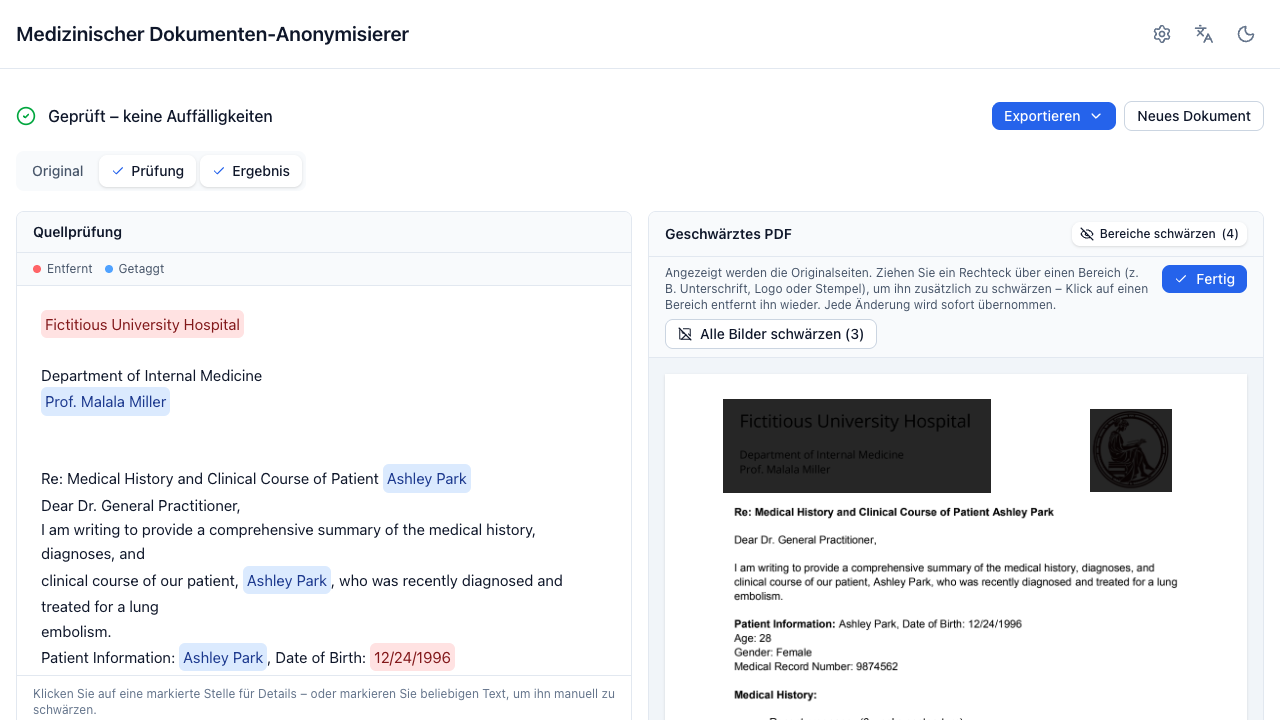
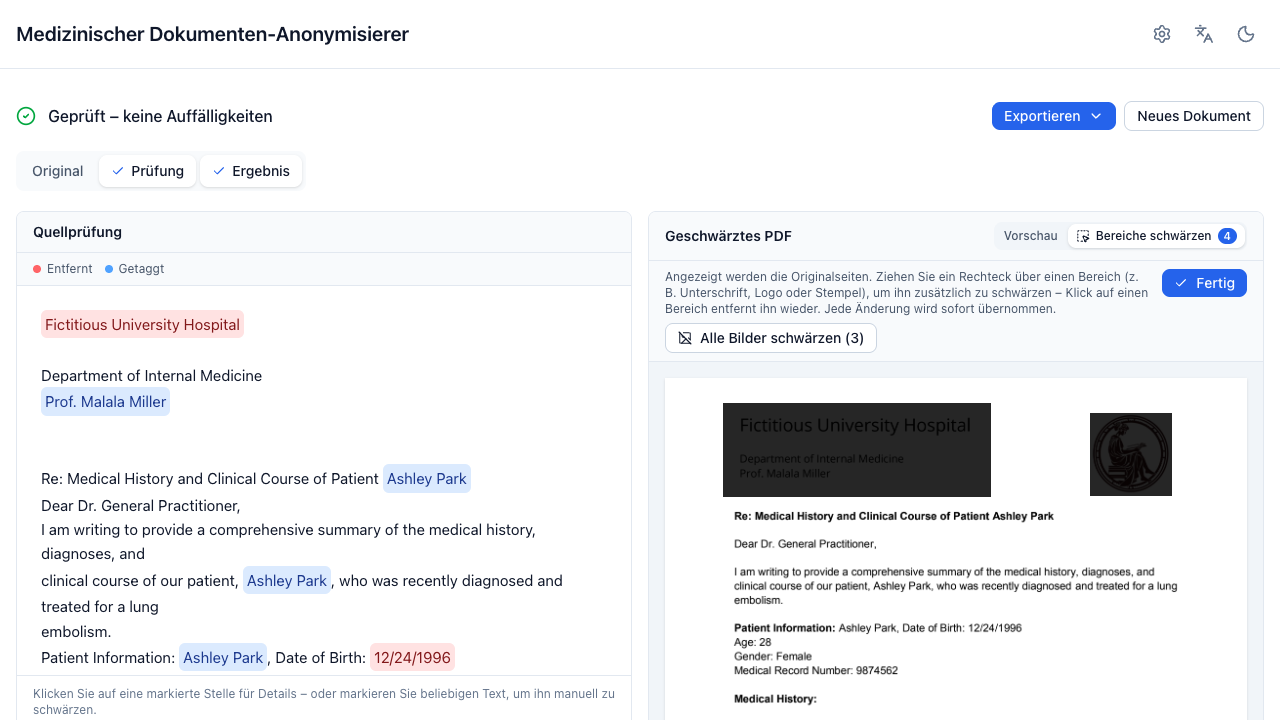
Make the PDF area editor a labelled second view of the PDF panel
The "Bereiche schwärzen" control was styled like the panel-switcher chips
(aria-pressed, an EyeOff icon, a bare "(3)" count), so it read as an on/off
switch for redaction rather than an entry point into the drawing editor.

Turn it into an explicit two-view segmented control (Vorschau | Bereiche
schwärzen) and add a footer line under the preview explaining what the text
pipeline cannot cover — signatures, stamps, logos — which doubles as the
area-count readout once areas exist.

diff --git a/frontend/components/anonymizer/ResultView.vue b/frontend/components/anonymizer/ResultView.vue
@@ -222,55 +222,112 @@
              the ORIGINAL pages; they apply to the export and this preview. -->
         <section v-if="isVisible('pdf')" :class="panelCardClass">
           <header class="shrink-0 border-b border-default bg-surface-muted px-4 py-2.5">
-            <div class="flex items-center justify-between gap-2">
+            <div class="flex flex-wrap items-center justify-between gap-2">
               <h3 class="text-sm font-semibold text-content">{{ t('result.panels.pdf') }}</h3>
-              <button
+              <!-- Two VIEWS of this one panel, not an on/off switch: opening
+                   the editor replaces the preview, so the header shows both
+                   sides and which one is showing. -->
+              <div
                 v-if="session.sourceFile !== null"
-                type="button"
-                :aria-pressed="areaEditing"
-                class="inline-flex items-center gap-1.5 rounded-card px-2 py-1 text-xs font-medium transition-colors focus:outline-none focus-visible:ring-2 focus-visible:ring-ring"
-                :class="
-                  areaEditing
-                    ? 'bg-surface text-content shadow-sm'
-                    : 'text-content-muted hover:text-content'
-                "
-                @click="areaEditing = !areaEditing"
+                role="group"
+                :aria-label="t('result.pdf.view_label')"
+                class="inline-flex items-center gap-0.5 rounded-card bg-surface-sunken p-0.5"
               >
-                <EyeOff class="h-3.5 w-3.5" aria-hidden="true" />
-                {{ t('result.pdf.areas') }}
-                <span v-if="session.redactAreas.length > 0">
-                  ({{ session.redactAreas.length }})
-                </span>
-              </button>
+                <button
+                  type="button"
+                  :aria-pressed="!areaEditing"
+                  :class="pdfViewTabClass(!areaEditing)"
+                  @click="areaEditing = false"
+                >
+                  {{ t('result.pdf.view_preview') }}
+                </button>
+                <button
+                  type="button"
+                  :aria-pressed="areaEditing"
+                  :class="pdfViewTabClass(areaEditing)"
+                  @click="areaEditing = true"
+                >
+                  <SquareDashedMousePointer class="h-3.5 w-3.5" aria-hidden="true" />
+                  {{ t('result.pdf.view_areas') }}
+                  <span
+                    v-if="session.redactAreas.length > 0"
+                    class="rounded-full bg-primary px-1.5 text-[11px] leading-4 font-semibold text-white"
+                    :aria-label="
+                      t(
+                        'result.pdf.areas_badge_label',
+                        { count: session.redactAreas.length },
+                        session.redactAreas.length,
+                      )
+                    "
+                  >
+                    {{ session.redactAreas.length }}
+                  </span>
+                </button>
+              </div>
             </div>
             <p v-if="result.source_type === 'pdf-ocr'" class="text-xs text-content-subtle">
               {{ t('result.pdf.reconstructed') }}
             </p>
           </header>
           <PdfAreaEditor v-if="areaEditing" class="min-h-0 flex-1" @done="areaEditing = false" />
-          <div
-            v-else-if="session.pdfPreviewLoading"
-            class="flex flex-1 items-center justify-center gap-2 p-4 text-sm text-content-subtle"
-            aria-live="polite"
-          >
-            <LoadingSpinner size="small" color="gray" inline label="" />
-            {{ t('result.pdf.generating') }}
-          </div>
-          <div v-else-if="session.pdfPreviewError" class="space-y-3 p-4">
-            <p class="rounded-card px-3 py-2 text-sm" :class="getBannerClass('red')">
-              {{ session.pdfPreviewError }}
+          <template v-else>
+            <div
+              v-if="session.pdfPreviewLoading"
+              class="flex flex-1 items-center justify-center gap-2 p-4 text-sm text-content-subtle"
+              aria-live="polite"
+            >
+              <LoadingSpinner size="small" color="gray" inline label="" />
+              {{ t('result.pdf.generating') }}
+            </div>
+            <div v-else-if="session.pdfPreviewError" class="space-y-3 p-4">
+              <p class="rounded-card px-3 py-2 text-sm" :class="getBannerClass('red')">
+                {{ session.pdfPreviewError }}
+              </p>
+              <BaseButton size="sm" variant="secondary" @click="session.refreshPdfPreview()">
+                {{ t('common.retry') }}
+              </BaseButton>
+            </div>
+            <iframe
+              v-else-if="session.pdfPreviewUrl"
+              :src="session.pdfPreviewUrl"
+              :title="t('result.pdf.preview_title')"
+              class="min-h-0 w-full flex-1"
+            ></iframe>
+            <p v-else class="min-h-0 flex-1 p-6 text-sm text-content-subtle">
+              {{ t('result.pdf.no_preview') }}
             </p>
-            <BaseButton size="sm" variant="secondary" @click="session.refreshPdfPreview()">
-              {{ t('common.retry') }}
-            </BaseButton>
-          </div>
-          <iframe
-            v-else-if="session.pdfPreviewUrl"
-            :src="session.pdfPreviewUrl"
-            :title="t('result.pdf.preview_title')"
-            class="min-h-0 w-full flex-1"
-          ></iframe>
-          <p v-else class="p-6 text-sm text-content-subtle">{{ t('result.pdf.no_preview') }}</p>
+            <!-- What the text pipeline cannot do: signatures, stamps and logos
+                 stay in the pixels. Say so here, where the reviewer sees them. -->
+            <p
+              v-if="session.sourceFile !== null"
+              class="shrink-0 border-t border-default px-4 py-2.5 text-xs text-content-subtle"
+            >
+              <template v-if="session.redactAreas.length === 0">
+                {{ t('result.pdf.areas_invite') }}
+              </template>
+              <template v-else>
+                {{
+                  t(
+                    'result.pdf.areas_marked',
+                    { count: session.redactAreas.length },
+                    session.redactAreas.length,
+                  )
+                }}
+              </template>
+              {{ ' ' }}
+              <button
+                type="button"
+                class="rounded-sm font-medium text-primary underline underline-offset-2 transition-colors hover:text-primary-hover focus:outline-none focus-visible:ring-2 focus-visible:ring-ring"
+                @click="areaEditing = true"
+              >
+                {{
+                  session.redactAreas.length === 0
+                    ? t('result.pdf.areas_invite_action')
+                    : t('result.pdf.areas_edit')
+                }}
+              </button>
+            </p>
+          </template>
         </section>
 
         <!-- Anonymized output as plain selectable text. -->
@@ -376,9 +433,9 @@ import {
   ChevronDown,
   Copy,
   Download,
-  EyeOff,
   FileDown,
   FileX,
+  SquareDashedMousePointer,
   XCircle,
 } from '@lucide/vue'
 import BaseButton from '@/components/common/BaseButton.vue'
@@ -424,7 +481,7 @@ const isPdfSource = computed(
   () => result.value?.source_type === 'pdf' || result.value?.source_type === 'pdf-ocr',
 )
 
-/** Area-redaction editor in the Original panel (per view; off on doc switch). */
+/** Which view of the redacted-PDF panel is showing (off on doc switch). */
 const areaEditing = ref(false)
 watch(
   () => session.activeDocumentId,
@@ -432,6 +489,14 @@ watch(
     areaEditing.value = false
   },
 )
+
+/** Segmented control in the PDF panel header: preview ↔ area editor. */
+function pdfViewTabClass(active: boolean): string {
+  return [
+    'inline-flex items-center gap-1.5 rounded-card px-2 py-1 text-xs font-medium transition-colors focus:outline-none focus-visible:ring-2 focus-visible:ring-ring',
+    active ? 'bg-surface text-content shadow-sm' : 'text-content-muted hover:text-content',
+  ].join(' ')
+}
 
 // ---------------------------------------------------------------------------
 // Header: status headline + export menu

diff --git a/e2e/screenshots/workflow.screens.spec.ts b/e2e/screenshots/workflow.screens.spec.ts
@@ -199,7 +199,9 @@ test('captures the documentation screenshots', async ({ page }) => {
     // Long enough for the "images blacked out" toast to auto-dismiss.
     await page.waitForTimeout(4500)
     await shoot(page, 'result-pdf-area-editor')
-    await page.getByRole('button', { name: /Bereiche schwärzen/ }).click()
+    // The header is a two-view segmented control, so leaving means picking the
+    // other view — clicking "Bereiche schwärzen" again would keep us here.
+    await page.getByRole('button', { name: 'Vorschau', exact: true }).click()
   })
 
   // --- Batch run (two documents) ------------------------------------------

diff --git a/docs/user-guide/review.md b/docs/user-guide/review.md
@@ -94,8 +94,9 @@ document of a batch — use *Immer schwärzen* in the
 ## Blacking out areas of a PDF
 
 Signatures, letterheads, stamps, and photos are pixels, not text, so no text
-detector can find them. In the **Geschwärztes PDF** panel, press **Bereiche
-schwärzen** and drag a rectangle over anything that should be covered:
+detector can find them. The **Geschwärztes PDF** panel has two views: switch it
+from **Vorschau** to **Bereiche schwärzen** and drag a rectangle over anything
+that should be covered:
 
 <figure markdown>
   ![The area redaction editor](../assets/screenshots/result-pdf-area-editor.png)
@@ -105,6 +106,8 @@ The editor shows the **original** pages, not the redacted preview — the text
 redaction is applied to the export on top of the areas you draw here.
 
 - Click an existing rectangle to remove it.
+- **Fertig** (or the **Vorschau** view) takes you back to the redacted preview;
+  every change applies immediately, so nothing is lost either way.
 - **Alle Bilder schwärzen** covers every embedded image the backend found, in
   one click.
 - Areas apply to the redacted-PDF preview and export only; text exports are
